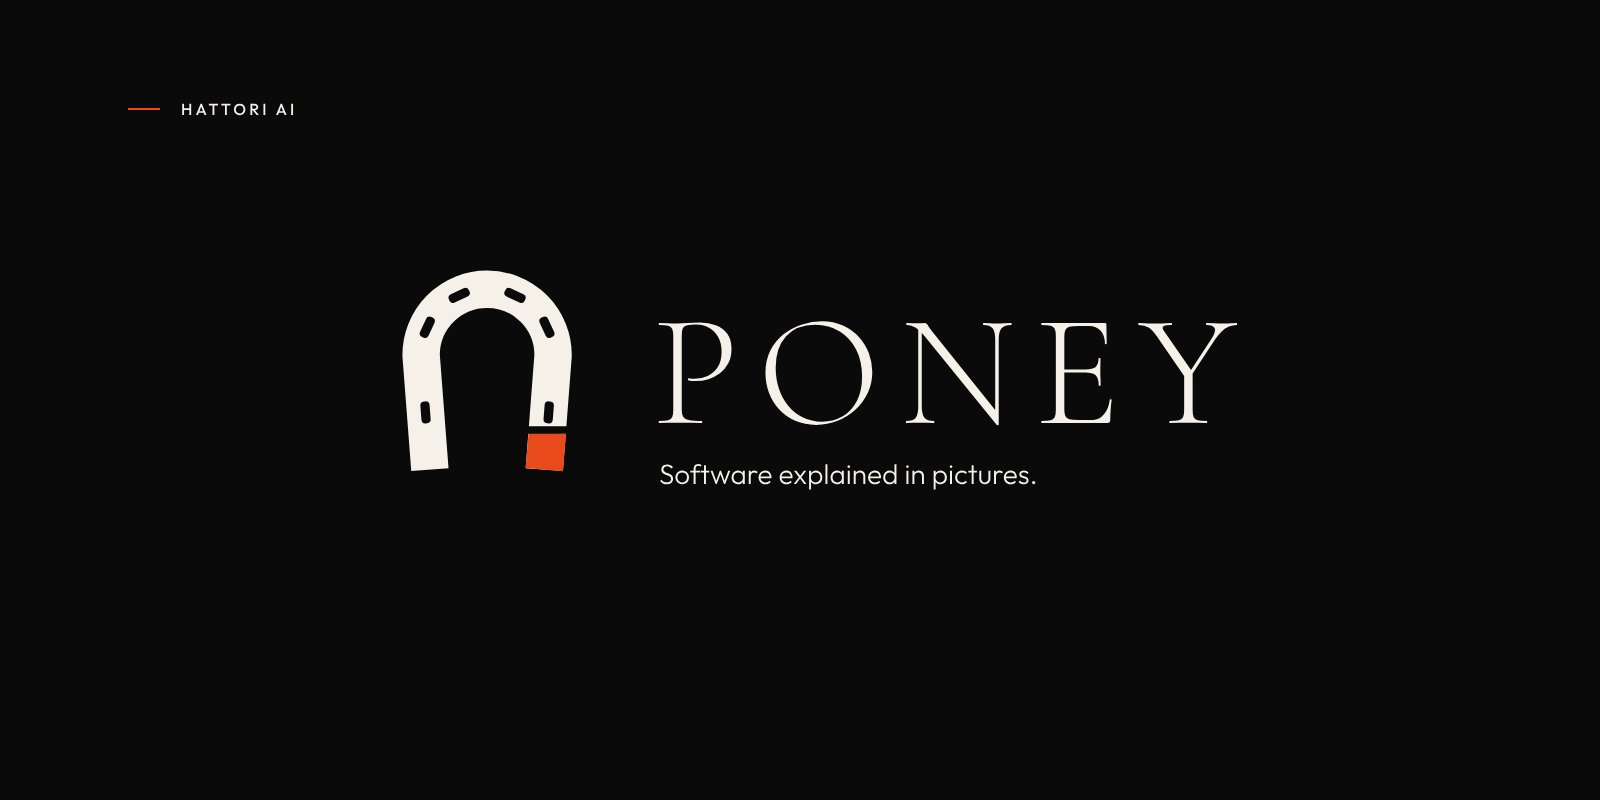
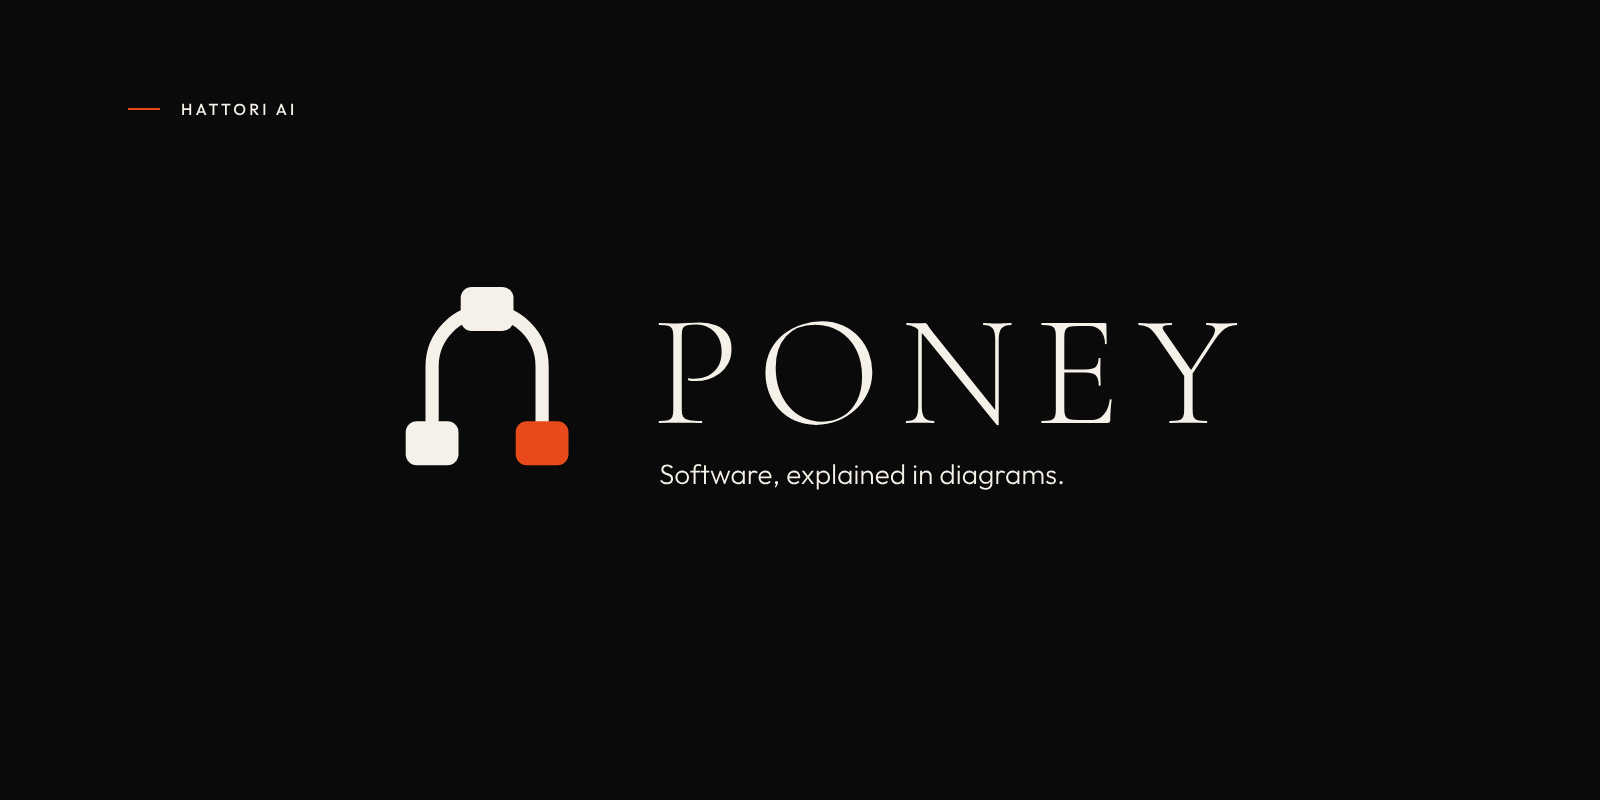
Poney's new mark: a horseshoe drawn as a diagram; Software, explained in diagrams
The logo, favicon and Studio sidebar mark become an arch joining three nodes,
one heel node in blade orange. The banners are rebuilt with the new mark and
the tagline "Software, explained in diagrams.", which the README and the
Studio start page now use in place of "pictures".

Claude-Session: https://claude.ai/code/session_01GSoEZ98D485oY5JQj3APmz

Changed region(s): [[0.25, 0.3125, 0.375, 0.5938], [0.4688, 0.5625, 0.6562, 0.625]]

diff --git a/apps/studio/src/components/navigation/Sidebar.tsx b/apps/studio/src/components/navigation/Sidebar.tsx
@@ -1,5 +1,5 @@
 import { plainText } from '@poney/core'
-import { useEffect, useMemo, useRef, useState, useId } from 'react'
+import { useEffect, useMemo, useRef, useState } from 'react'
 import { BookOpenText, Check, FolderGit2, ChevronDown, ChevronRight, FileInput, House, LayoutGrid, Search, Star } from 'lucide-react'
 import type { Entity, View } from '@poney/core'
 import { OVERVIEW, useIndex, useStudio } from '@/features/store'
@@ -149,28 +149,15 @@ function SavedTo({ fallback }: { fallback: string }) {
   )
 }
 
-/** Poney's mark: a horseshoe with its nail holes cut through and one heel in the accent colour, on an ink tile. */
+/** Poney's mark: a horseshoe drawn as a diagram, an arch joining three nodes with one heel in the accent colour, on an ink tile. */
 export function Mark() {
-  const id = `poney-shoe-${useId().replace(/:/g, '')}`
   return (
     <svg width="30" height="30" viewBox="-22 -18 156 152" aria-hidden className="shrink-0">
       <rect x="-22" y="-18" width="156" height="152" rx="36" fill="var(--ink)" />
-      <defs>
-        <mask id={id} maskUnits="userSpaceOnUse" x="0" y="0" width="112" height="112">
-          <rect width="112" height="112" fill="white" />
-          <rect x="26.71" y="28.32" width="4.2" height="10" rx="1.8" fill="black" transform="rotate(205.0 28.81 33.32)"/>
-          <rect x="41.22" y="13.81" width="4.2" height="10" rx="1.8" fill="black" transform="rotate(245.0 43.32 18.81)"/>
-          <rect x="66.58" y="13.81" width="4.2" height="10" rx="1.8" fill="black" transform="rotate(295.0 68.68 18.81)"/>
-          <rect x="81.09" y="28.32" width="4.2" height="10" rx="1.8" fill="black" transform="rotate(335.0 83.19 33.32)"/>
-          <rect x="25.90" y="67.00" width="4.2" height="10" rx="1.8" fill="black" transform="rotate(-4.4 28.00 72.00)"/>
-          <rect x="81.90" y="67.00" width="4.2" height="10" rx="1.8" fill="black" transform="rotate(4.4 84.00 72.00)"/>
-          <path d="M70 80H98" stroke="black" strokeWidth="3.5" />
-        </mask>
-      </defs>
-      <g mask={`url(#${id})`} fill="none" strokeWidth="17">
-        <path d="M30 98L26 46A30 30 0 0 1 86 46L82 98" stroke="var(--paper)" />
-        <path d="M83.4 81L82 98" stroke="var(--poney)" />
-      </g>
+      <path d="M31 84V51A25 25 0 0 1 81 51V84" fill="none" stroke="var(--paper)" strokeWidth="6" />
+      <rect x="44" y="15" width="24" height="20" rx="5" fill="var(--paper)" />
+      <rect x="19" y="76" width="24" height="20" rx="5" fill="var(--paper)" />
+      <rect x="69" y="76" width="24" height="20" rx="5" fill="var(--poney)" />
     </svg>
   )
 }

diff --git a/apps/studio/src/app/StartPage.tsx b/apps/studio/src/app/StartPage.tsx
@@ -176,7 +176,7 @@ export function StartPage() {
       <main className="mx-auto grid max-w-[1080px] gap-x-14 gap-y-12 px-6 pb-20 pt-14 sm:px-10 sm:pt-20 xl:grid-cols-[minmax(0,7fr)_minmax(0,5fr)]">
         <div>
           <p className="text-[14px] font-semibold text-poney">Poney Studio</p>
-          <h1 className="mt-3 max-w-[18ch] text-[36px] font-semibold leading-[1.08] tracking-[-0.025em] sm:text-[44px]">Pictures that explain software.</h1>
+          <h1 className="mt-3 max-w-[18ch] text-[36px] font-semibold leading-[1.08] tracking-[-0.025em] sm:text-[44px]">Software, explained in diagrams.</h1>
           <p className="mt-5 max-w-[52ch] text-[17px] leading-relaxed text-ink-2">An agent writes walkthroughs of a change, or tours of a codebase. You read them here, explore the system, and ask the agent questions.</p>
 
           {hasOpen && (

diff --git a/apps/studio/index.html b/apps/studio/index.html
@@ -3,7 +3,7 @@
   <head>
     <meta charset="UTF-8" />
     <meta name="viewport" content="width=device-width, initial-scale=1.0" />
-    <meta name="description" content="Poney Studio — explore how software works." />
+    <meta name="description" content="Poney Studio — software, explained in diagrams." />
     <link rel="icon" type="image/svg+xml" href="/favicon.svg" />
     <title>Poney Studio</title>
   </head>

diff --git a/README.md b/README.md
@@ -1,8 +1,8 @@
 # Poney
 
-![Poney — Software explained in pictures](media/banner.png)
+![Poney — Software, explained in diagrams](media/banner.png)
 
-**Explain software in pictures that agents can write and people can read.**
+**Explain software in diagrams that agents can write and people can read.**
 
 A walkthrough explains software in scenes. A **change** explains one change: what changes for a person, a verdict, then focused scenes with new, changed and removed parts marked, numbered notes, the proof and the code. A **tour** teaches a codebase as it is: its parts as maps with groups that open and close, the main flows, excerpts of the code — and then the reader asks the agent questions in the Studio.
 
